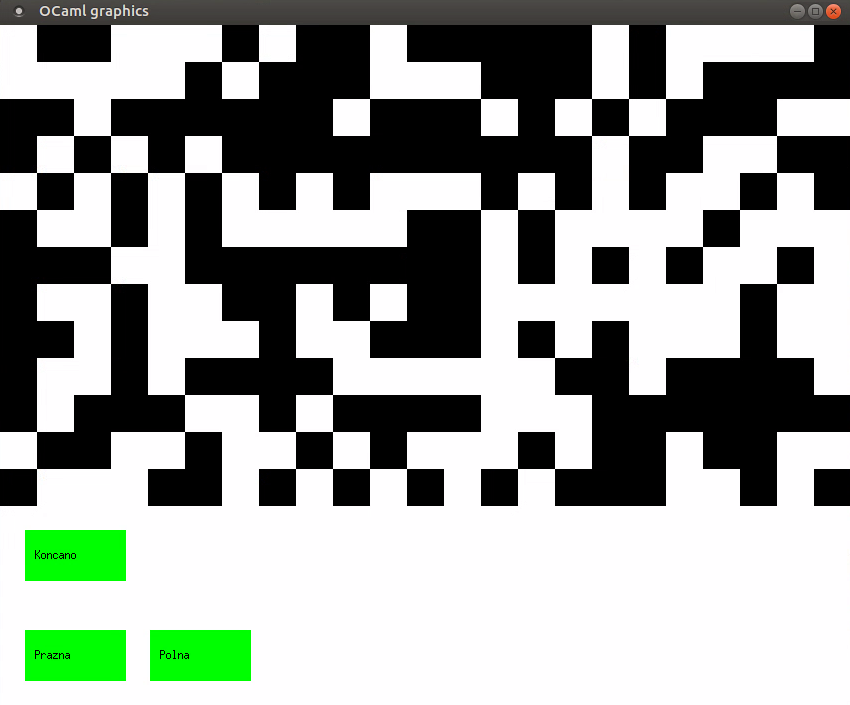
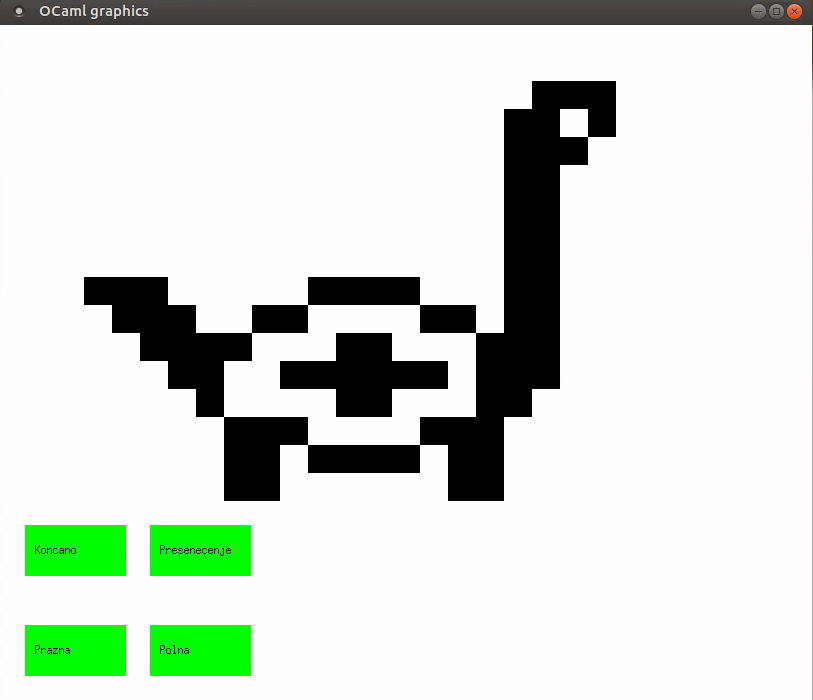
Dodan dinozaver

diff --git a/README.md b/README.md
@@ -26,28 +26,32 @@ Sledi vnos želene velikosti tabele. Tabelo je smiselno narediti manjšo od `200
 
 Ko se projekt inicializira je začetna postavitev nastavljena naključno. Črna barva predstavlja žive celice in bela barva mrtve. Na dnu zaslona so štirje gumbi:
 
-## `naprej`
+## `Naprej`
 Ob kliku na gumb se vsaka celica na vrhu spremeni po določenem pravilu. Osnovna pravila so enaka kot pri Conwayevi [Igri Življenja](https://en.wikipedia.org/wiki/Conway%27s_Game_of_Life). V kolikor uporabnik pravila spremeni se seveda upošteva nastavljena pravila. Če je izbrano število korakov med zaporednima prikazoma večje od $1$, tedaj se ne prikaže vsak korak evolucije.
 
-## `nastavi`
-Gumb nas odpelje na novo stran, kjer lahko s klikom na celice spremenimo njihovo trenutno stanje. Če je celica, na katero smo kliknili, bila živa, je sedaj mrtva in obratno. Za priročnost sta dodana še gumba `Prazna` in `Polna`, ki nastavita vse celice na mrtve ali pa vse celice na žive. Ko smo končali z nastavitvijo se s klikom na gumb `Koncano` vrnemo na prejšnjo stran.
+## `Nastavi`
+Gumb nas odpelje na novo stran, kjer lahko s klikom na celice spremenimo njihovo trenutno stanje. Če je bila celica, na katero smo kliknili, živa, je sedaj mrtva in obratno. Za priročnost sta dodana še gumba `Prazna` in `Polna`, ki nastavita vse celice na mrtve ali pa vse celice na žive. 
+
+Gumb `Presenecenje` nastavi tabelo na eno izmed preprostih a zanimivih pozicij, ki si jih je vredno pogledati in ugotoviti, zakaj so si zaslužile svoje mesto v projektu. Ogromno drugih začetnih postavitev za Conwayevo igro življenja si lahko pogledam na [povezavi](https://playgameoflife.com/lexicon).
+
+Ko smo zadovoljni s svojo umetniško stvaritvijo se s klikom na gumb `Koncano` vrnemo na prejšnjo stran.
 
 | ![nastavi.png](./slike/nastavi.png) |
 |:--:| 
 | Nastavitvena stran |
 
-## `sosedje`
+## `Sosedje`
 
 Ob kliku na ta gumb se okno zapre in nas v ukazni vrstici program vpraša za želeno velikost matrike sosedov. Vpisati je potrebno liho naravno število $2k+1$, iz katerega se nato ustvari $(2k+1)\times (2k+1)$ matrika sosedov, kjer centralni element predstavlja celico, ki jo gledamo, za sosede pa lahko definiramo celice, ki so za največ $k$ oddaljene od opazovane celice glede na [razdaljo Čebiševa](https://en.wikipedia.org/wiki/Chebyshev_distance).
 
-Nato se odpre povsem identično okno kot pri gumbu `nastavi` in z enakimi operacijami sedaj izberemo, katere celice bomo obravnavali kot sosede centralne celice. Celice označeno s črno se bodo upoštevale kot sosednje celice, neoznačene celice pa ne. Večinoma se za sosede obravnava neko simetrično okolico okoli centralnega elementa, ni pa to nujno. Centralni element je lahko tudi sosed samemu sebi, če to tako označimo.
+Nato se odpre povsem identično okno kot pri gumbu `Nastavi` in z enakimi operacijami sedaj izberemo, katere celice bomo obravnavali kot sosede centralne celice. Celice označeno s črno se bodo upoštevale kot sosednje celice, neoznačene celice pa ne. Večinoma se za sosede obravnava neko simetrično okolico okoli centralnega elementa, ni pa to nujno. Centralni element je lahko tudi sosed samemu sebi, če to tako označimo.
 
 | ![sosedje.png](./slike/sosedje.png) |
 |:--:| 
 | Nastavitev matrike sosedov |
 
 
-Ko smo zadovolnji z izbiro kliknemo gumb `konec` in okno se zapre in v ukazni vrstici nam izpiše izbrano sosedsko matriko. Nato nas vpraša po pravilih za žive celice.
+Ko smo zadovolnji z izbiro kliknemo gumb `Koncano` in okno se zapre in v ukazni vrstici nam izpiše izbrano sosedsko matriko. Nato nas vpraša po pravilih za žive celice.
 
 Implementirana pravila so omejena na funkcije, ki imajo za argumenta le trenutno stanje opazovane celice in število vseh živih sosedov glede na definirano sosedsko matriko.
 
@@ -61,7 +65,7 @@ Ob zadnjem vnosu števila $-1$ se nam nazaj odpre osnovno okno in lahko nadaljuj
 |:--:| 
 | Nastavitev pravil |
 
-## `izhod`
+## `Izhod`
 Okno se zapre in program se zaključi.
 
 # Razno
